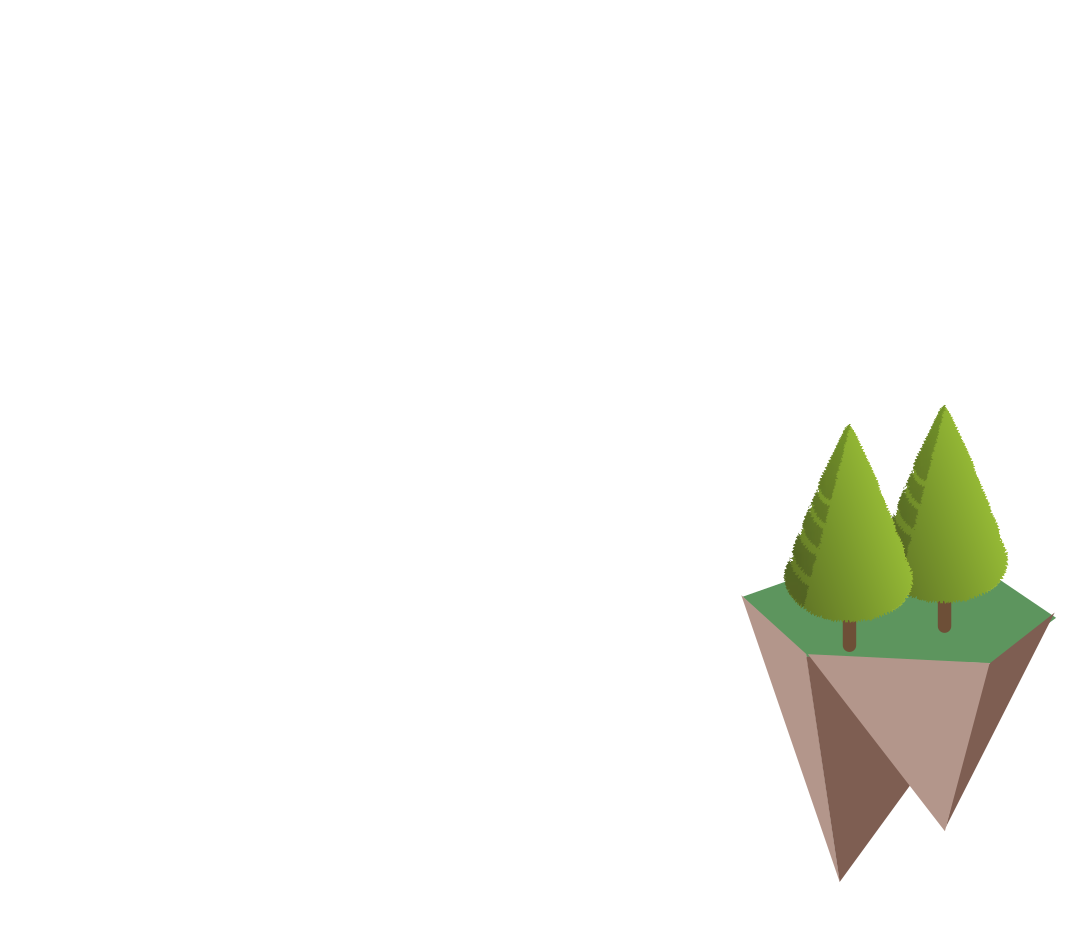
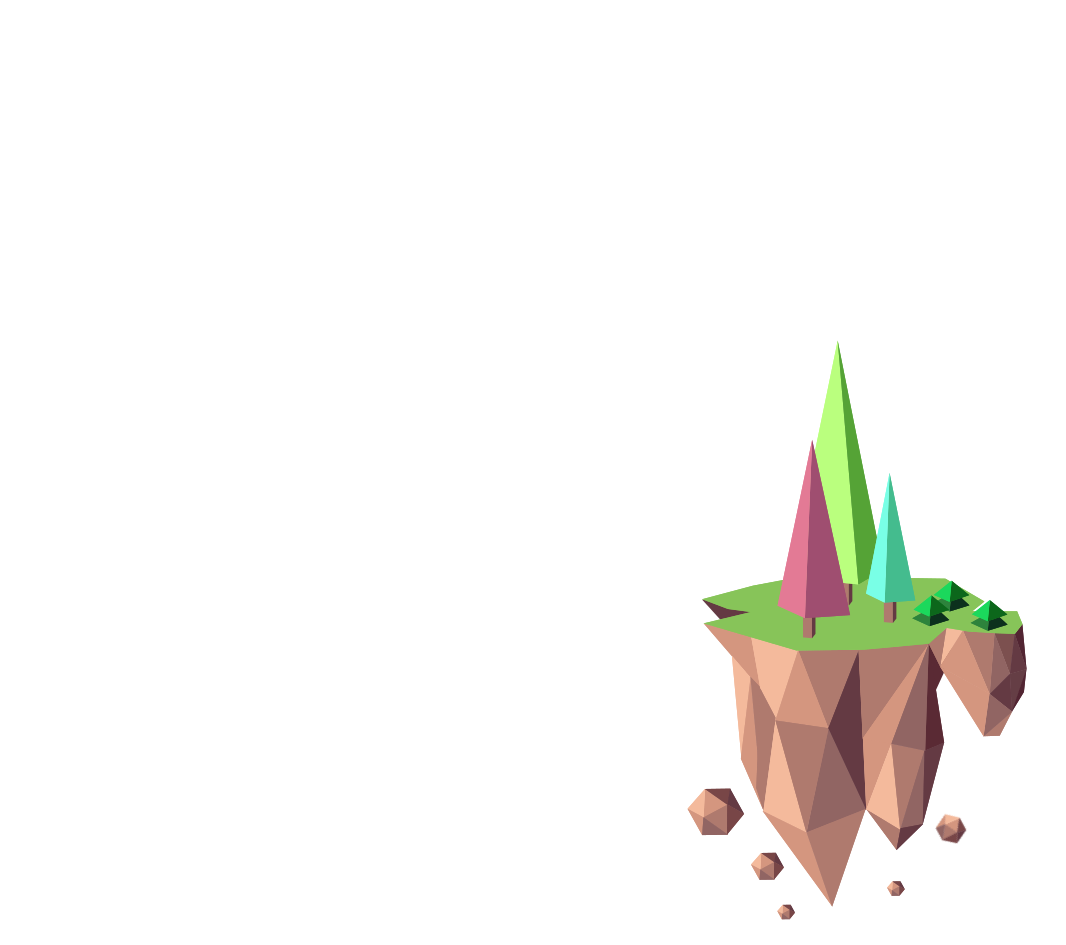
Header vector enhanced (mostly shadow), fix about section bug

Changed region(s): [[0.6501, 0.3683, 0.9906, 0.982], [0.8358, 0.9206, 0.8668, 0.9513]]

diff --git a/public/css/lanyon.css b/public/css/lanyon.css
@@ -864,6 +864,20 @@ a.pagination-item:hover {
   animation-timing-function: ease-in-out;
 }
 
+.floating-max {
+  animation-name: float-max;
+  animation-duration: 7s;
+  animation-iteration-count: infinite;
+  animation-timing-function: ease-in-out;
+}
+
+.floating-min {
+  animation-name: float-min;
+  animation-duration: 3s;
+  animation-iteration-count: infinite;
+  animation-timing-function: ease-in-out;
+}
+
 .floating-less {
   animation-name: float-less;
   animation-duration: 4s;
@@ -1237,6 +1251,54 @@ a.pagination-item:hover {
   75% {
     -webkit-transform: translate(0, 7px);
     transform: translate(0, 7px);
+    -webkit-animation-timing-function: cubic-bezier(.45,0,.8,.75);
+    animation-timing-function: cubic-bezier(.45,0,.8,.75)
+  }
+  to {
+    -webkit-transform: translate(0, 0px);
+    transform: translate(0, 0px);
+  }
+}
+@-webkit-keyframes float-min{
+  0%, 50% {
+    -webkit-transform: translate(0, 0px);
+    transform: translate(0,  0px);
+    -webkit-animation-timing-function: cubic-bezier(.2,.25,.55,1);
+    animation-timing-function: cubic-bezier(.2,.25,.55,1)
+  }
+  25% {
+    -webkit-transform: translate(0, -5px);
+    transform: translate(0,  -9px);
+    -webkit-animation-timing-function: cubic-bezier(.45,0,.8,.75);
+    animation-timing-function: cubic-bezier(.45,0,.8,.75)
+  }
+  75% {
+    -webkit-transform: translate(0, 5px);
+    transform: translate(0, 9px);
+    -webkit-animation-timing-function: cubic-bezier(.45,0,.8,.75);
+    animation-timing-function: cubic-bezier(.45,0,.8,.75)
+  }
+  to {
+    -webkit-transform: translate(0, 0px);
+    transform: translate(0, 0px);
+  }
+}
+@-webkit-keyframes float-max{
+  0%, 50% {
+    -webkit-transform: translate(0, 0px);
+    transform: translate(0,  0px);
+    -webkit-animation-timing-function: cubic-bezier(.2,.25,.55,1);
+    animation-timing-function: cubic-bezier(.2,.25,.55,1)
+  }
+  25% {
+    -webkit-transform: translate(0, -15px);
+    transform: translate(0,  -9px);
+    -webkit-animation-timing-function: cubic-bezier(.45,0,.8,.75);
+    animation-timing-function: cubic-bezier(.45,0,.8,.75)
+  }
+  75% {
+    -webkit-transform: translate(0, 15px);
+    transform: translate(0, 15px);
     -webkit-animation-timing-function: cubic-bezier(.45,0,.8,.75);
     animation-timing-function: cubic-bezier(.45,0,.8,.75)
   }

diff --git a/_layouts/home.html b/_layouts/home.html
@@ -29,8 +29,10 @@
 				<div class="home-header-vector-body" id="home-header-vector-body">
 					<div class="pointer-anime" id="pointer-anime"></div>
 					<div class="pointer-moon" id="pointer-moon"></div>
+					<img class="home-header-vector floating-max" src="{{ site.baseurl }}/img/header-blur-one.png"/>
 					<img class="home-header-vector floating" src="{{ site.baseurl }}/img/header-adventure.png"/>
 					<img class="home-header-vector floating-less" src="{{ site.baseurl }}/img/header-anime.png"/>
+					<img class="home-header-vector floating-min" src="{{ site.baseurl }}/img/header-blur-two.png"/>
 				</div>
 			</div>
 		</div>

diff --git a/_includes/social-media-links.html b/_includes/social-media-links.html
@@ -4,7 +4,7 @@
     {% for entry in sm %}
     {% assign key = entry | first %}
     {% if sm[key].id %}
-    <a href="{{ sm[key].href }}{{ sm[key].id }}" target="_blank" title="{{ sm[key].title }}"><i class="fa fa-2x {{ sm[key].fa-icon }}" style="color: black"></i></a>
+    <a href="{{ sm[key].href }}{{ sm[key].id }}" target="_blank" title="{{ sm[key].title }}"><i class="fa fa-2x {{ sm[key].fa-icon }}"></i></a>
     {% endif %}
     {% endfor %}
 </div>
